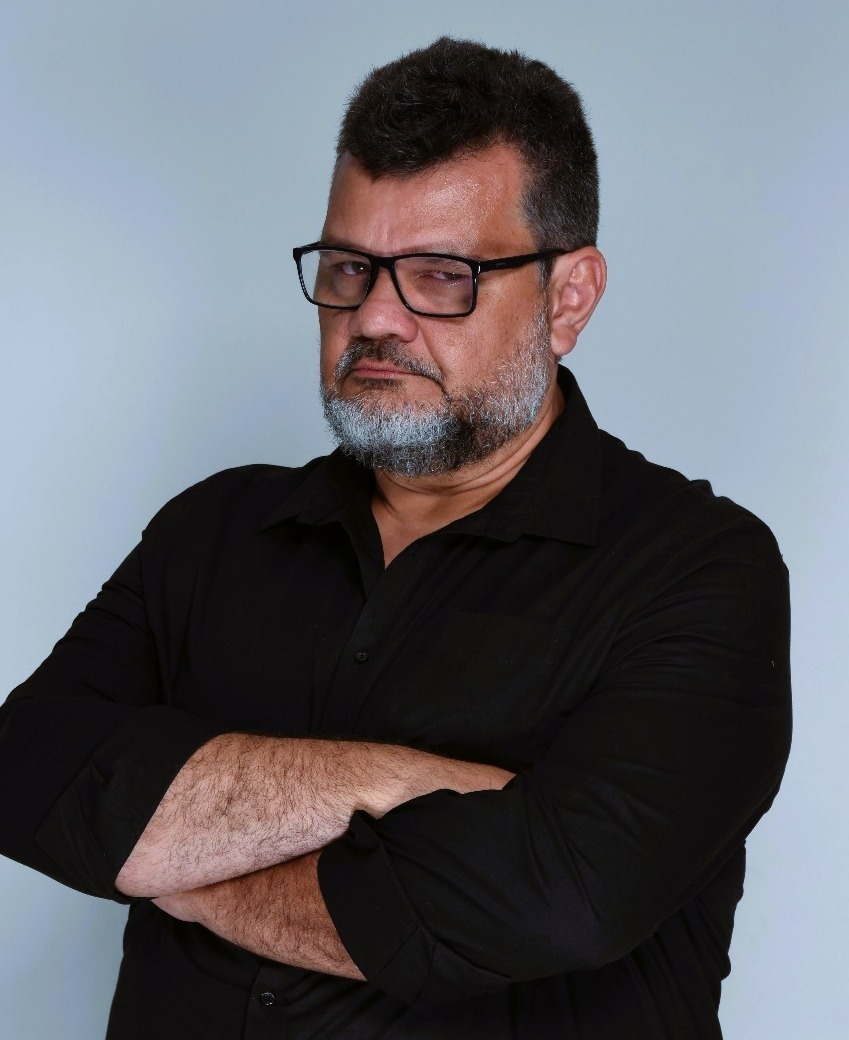
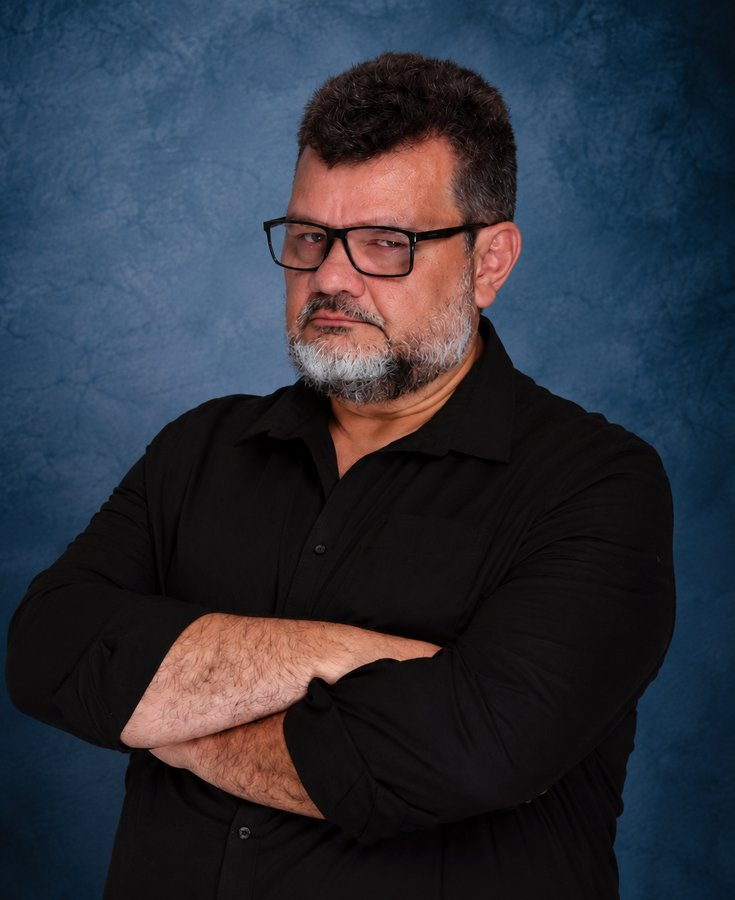
SAVO: fotos com fundo azul padronizado + foto do Prof. Luiz Alberto
- Substitui as fotos da equipe pelas versões de fundo azul padronizado
  (Carla, Sandra, Alex, Danielle) enviadas pela coordenação.
- Acrescenta a foto do Prof. Luiz Alberto (substitui o selo "LA").
- Imagens convertidas para JPG otimizado (~70-100 KB cada) para
  carregamento rápido.

Claude-Session: https://claude.ai/code/session_01CfBHCFfXehThvav81eHqty

diff --git a/index.html b/index.html
@@ -692,8 +692,7 @@ section{padding:clamp(52px,6.5vw,96px) 0;}
     <!-- Coordenação -->
     <div class="coord reveal">
       <div class="coord-foto">
-        <!-- SUBSTITUIR pela foto do Prof. Luiz Alberto: assets/luiz-alberto.jpg (trocar o <span> por <img src=...>) -->
-        <span class="mono">LA</span>
+        <img src="assets/luiz-alberto.jpg" alt="Prof. Luiz Alberto">
       </div>
       <div class="coord-info">
         <div class="tag">Coordenação Geral</div>

diff --git a/savo-elementor.html b/savo-elementor.html
@@ -675,8 +675,7 @@ section{padding:clamp(52px,6.5vw,96px) 0;}
     <!-- Coordenação -->
     <div class="coord reveal">
       <div class="coord-foto">
-        <!-- SUBSTITUIR pela foto do Prof. Luiz Alberto: assets/luiz-alberto.jpg (trocar o <span> por <img src=...>) -->
-        <span class="mono">LA</span>
+        <img src="assets/luiz-alberto.jpg" alt="Prof. Luiz Alberto">
       </div>
       <div class="coord-info">
         <div class="tag">Coordenação Geral</div>
